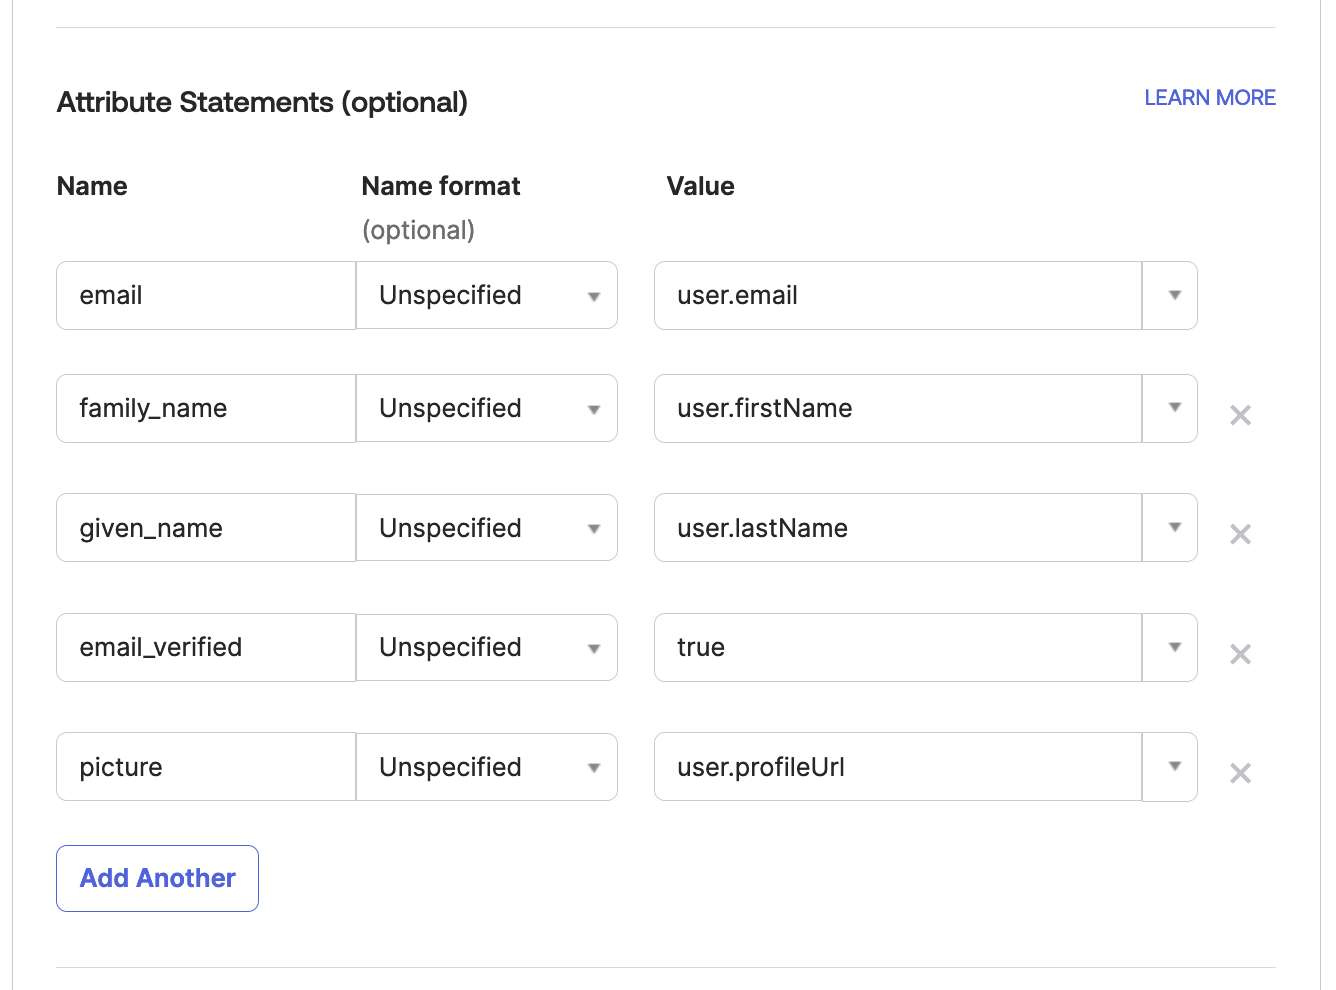
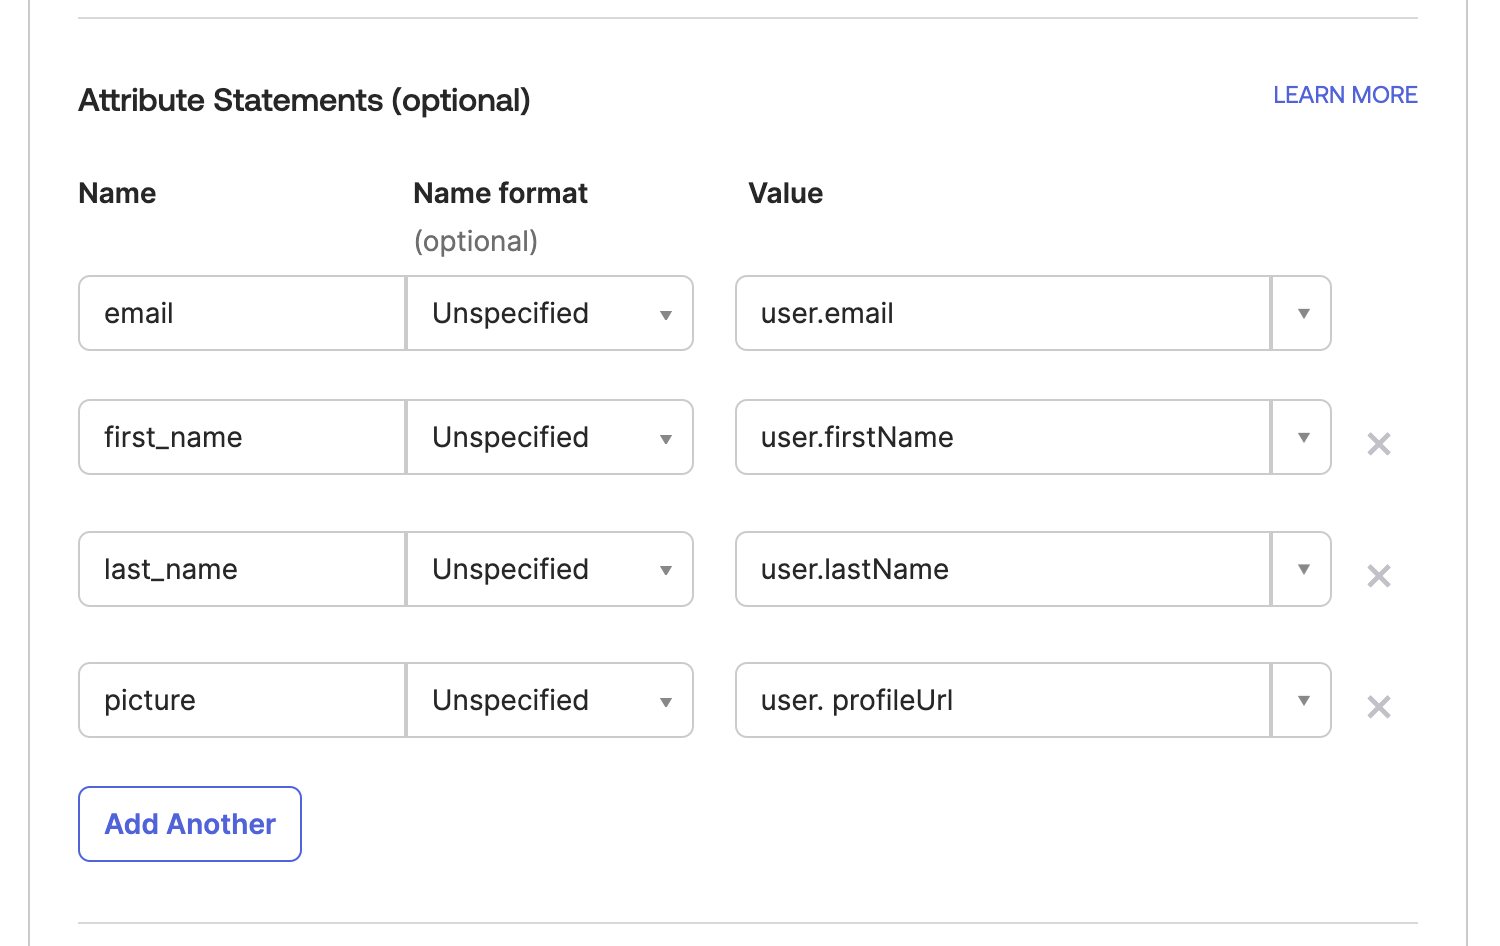
OAS-6641 | fix attributes for saml SSO

diff --git a/site/content/3.10/arangograph/security-and-access-control/single-sign-on/_index.md b/site/content/3.10/arangograph/security-and-access-control/single-sign-on/_index.md
@@ -60,7 +60,6 @@ Provider (IdP). For more information about Okta, please refer to the
    - email: `user.email`
    - given_name: `user.firstName`
    - family_name: `user.lastName`
-   - email_verified: `true`
    - picture: `user.profileUrl`
 
    This step consists of a mapping between the ArangoGraph attribute names and

diff --git a/site/content/3.11/arangograph/security-and-access-control/single-sign-on/_index.md b/site/content/3.11/arangograph/security-and-access-control/single-sign-on/_index.md
@@ -60,7 +60,6 @@ Provider (IdP). For more information about Okta, please refer to the
    - email: `user.email`
    - given_name: `user.firstName`
    - family_name: `user.lastName`
-   - email_verified: `true`
    - picture: `user.profileUrl`
 
    This step consists of a mapping between the ArangoGraph attribute names and

diff --git a/site/content/3.12/arangograph/security-and-access-control/single-sign-on/_index.md b/site/content/3.12/arangograph/security-and-access-control/single-sign-on/_index.md
@@ -60,7 +60,6 @@ Provider (IdP). For more information about Okta, please refer to the
    - email: `user.email`
    - given_name: `user.firstName`
    - family_name: `user.lastName`
-   - email_verified: `true`
    - picture: `user.profileUrl`
 
    This step consists of a mapping between the ArangoGraph attribute names and
